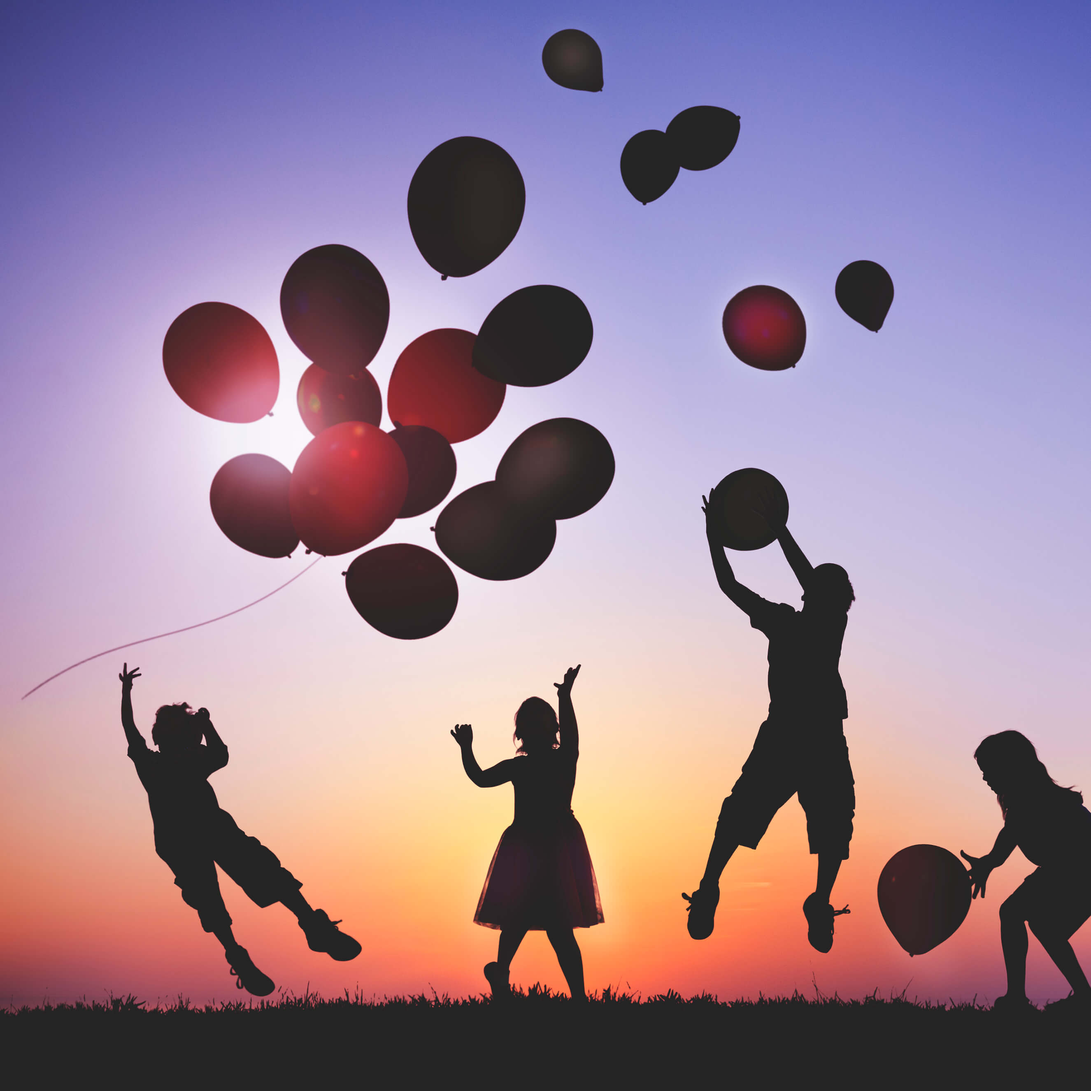
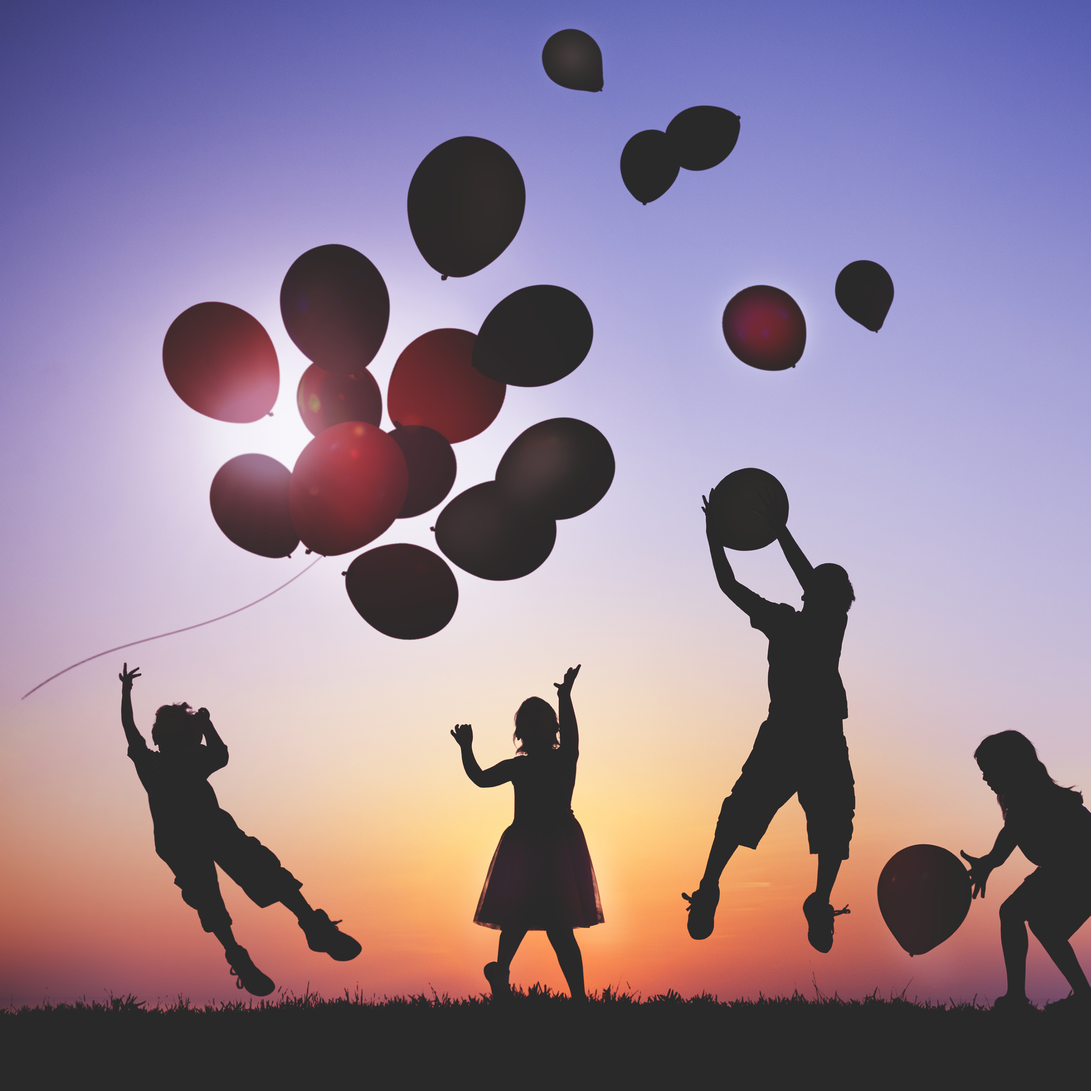
Change pic #house-parties

diff --git a/assets/css/style.css b/assets/css/style.css
@@ -284,7 +284,7 @@ a:hover {
 #parties-outside {
     margin-bottom: 80px;
     height: 350px;
-    background-image: url("../images/main-index-photos/balloons_outside.jpg");
+    background-image: url("/assets/images/main-index-photos/ballons_outside.jpg");
     background-repeat: no-repeat;
     background-position: center;
 }
@@ -292,7 +292,7 @@ a:hover {
 #indoor-parties {
     margin-bottom: 80px;
     height: 350px;
-    background-image: url("../images/main-index-photos/balloons_inside.jpg");
+    background-image: url("/assets/images/main-index-photos/baloons_inside.jpg");
     background-repeat: no-repeat;
     background-position: center;
 }
@@ -300,7 +300,7 @@ a:hover {
 #house-parties {
     margin-bottom: 80px;
     height: 350px;
-    background-image: url("../images/main-index-photos/house_parties.jpg");
+    background-image: url("/assets/images/main-index-photos/ballons_outside.jpg");
     background-repeat: no-repeat;
     background-position: center;
 }
